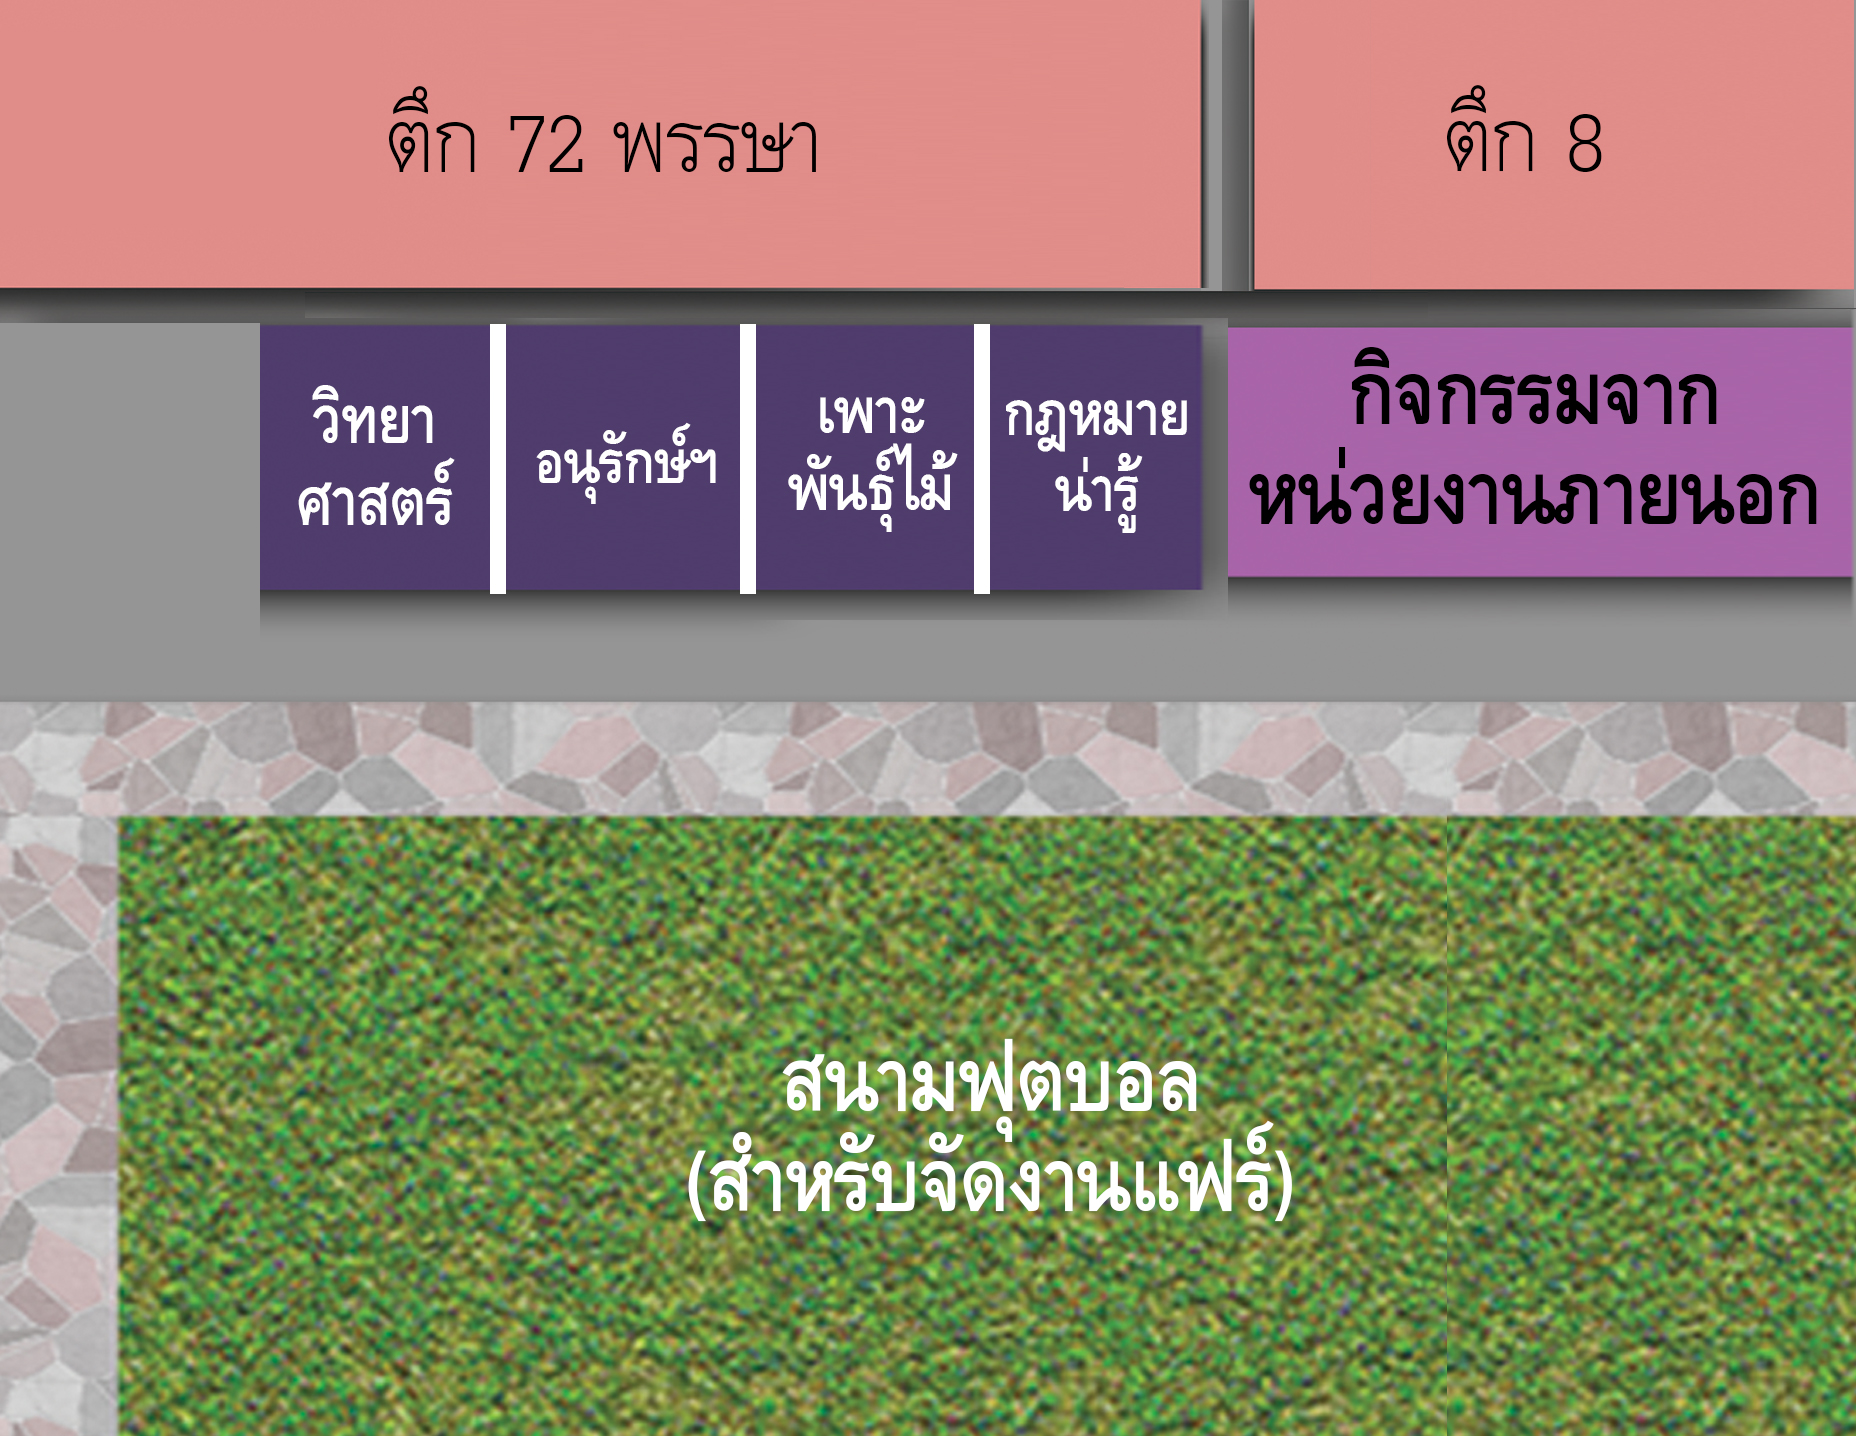
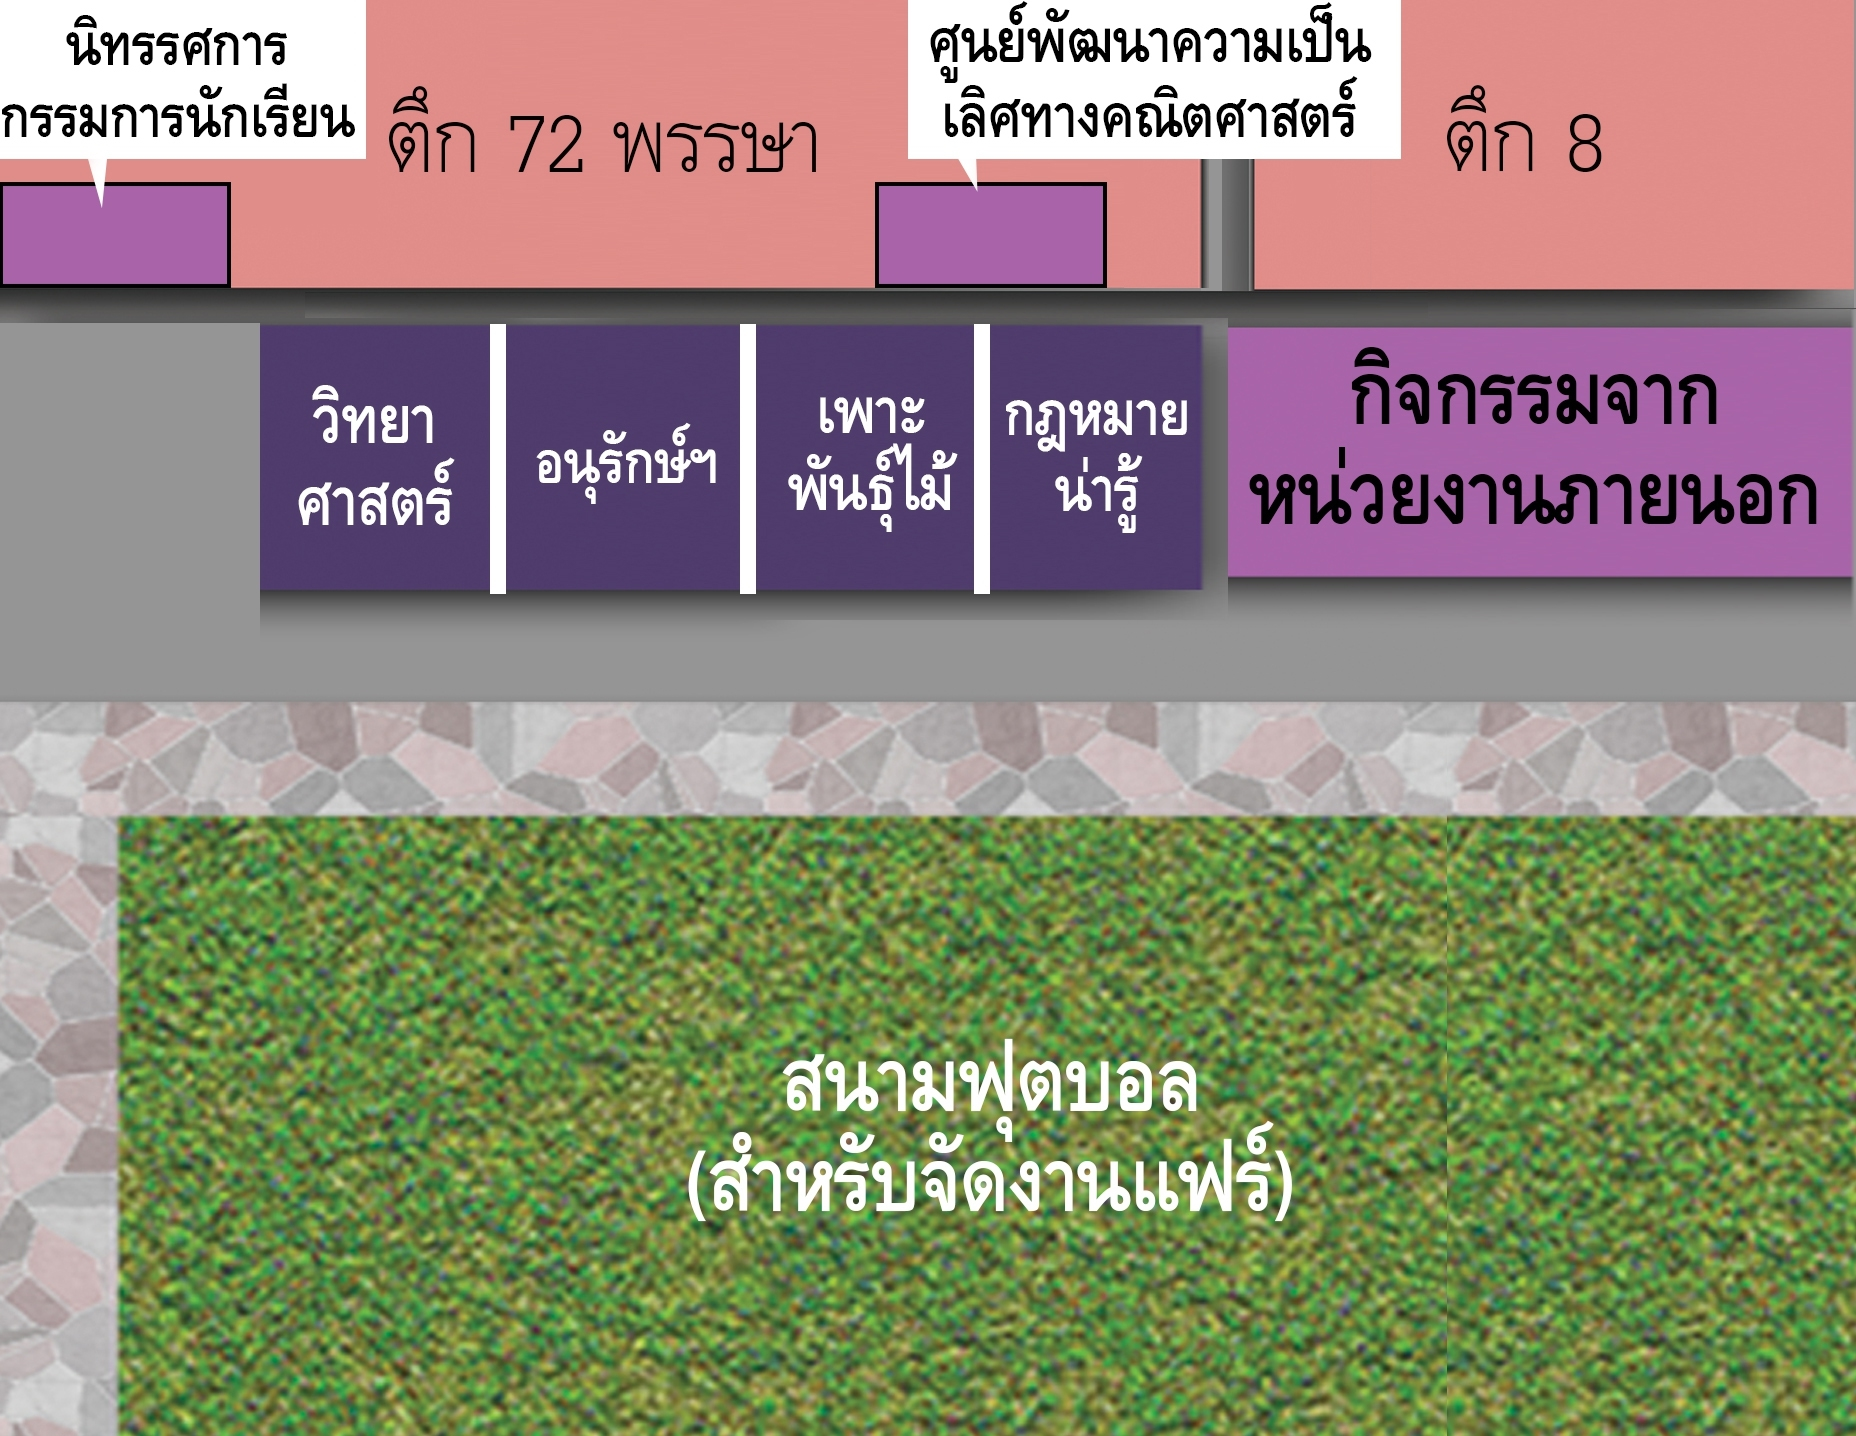
Add school location plan and edit links

Changed region(s): [[0.4688, 0.0, 0.7812, 0.2145], [0.0, 0.0, 0.2188, 0.2145]]

diff --git a/resources/views/index.blade.php b/resources/views/index.blade.php
@@ -53,7 +53,7 @@
             @if($data != null && $data['registered'] && !session()->has('status'))
                 <div class="z-depth-1 card-panel green white-text" style="max-width:800px; margin: 3rem auto 3rem;">
                     รหัสยืนยันการลงทะเบียนของคุณคือ {{ $data['id'] }}<br/>
-                    <span style="font-size: 0.8em">กรุณาแจ้งรหัสที่ ณ จุดลงทะเบียน เพื่อรับเกียรติบัตรและสูติบัตรงาน</span>
+                    <span style="font-size: 0.8em">กรุณาแจ้งรหัสนี้ ณ จุดลงทะเบียน เพื่อรับเกียรติบัตรและสูติบัตรงาน</span>
                 </div>
             @endif
 
@@ -147,7 +147,7 @@
                 <div class="col s12 m4">
                     <a href="https://www.facebook.com/tuyearbookclub/">ชมรมสร้างสรรค์หนังสือ</a> <br/>
                     <a href="https://www.facebook.com/tu.comicclub/">ชมรมการ์ตูน</a> <br/>
-                    ชมรมนิเทศศิลป <br/>
+                    <a href="https://www.facebook.com/%E0%B8%8A%E0%B8%A1%E0%B8%A3%E0%B8%A1%E0%B8%99%E0%B8%B4%E0%B9%80%E0%B8%97%E0%B8%A8%E0%B8%A8%E0%B8%B4%E0%B8%A5%E0%B8%9B-%E0%B9%82%E0%B8%A3%E0%B8%87%E0%B9%80%E0%B8%A3%E0%B8%B5%E0%B8%A2%E0%B8%99%E0%B9%80%E0%B8%95%E0%B8%A3%E0%B8%B5%E0%B8%A2%E0%B8%A1%E0%B8%AD%E0%B8%B8%E0%B8%94%E0%B8%A1%E0%B8%A8%E0%B8%B6%E0%B8%81%E0%B8%A9%E0%B8%B2-168207636569942/">ชมรมนิเทศศิลป</a>	<br/>
                     <a href="https://www.facebook.com/RobotTU/">ชมรมของเล่นเพื่อการเรียนรู้</a> <br/>
                     ชมรมเศรษฐศาสตร์ <br/>
                     <a href="https://www.facebook.com/TUGLOBE/">ชมรมโลกทั้งระบบ</a> <br/>
@@ -177,20 +177,20 @@
         <br/>
 
         <h5 class="center theme-color light-text">ผังงาน</h5>
+        <div class="container">
+            <div class="row">
+                <a href="/plan-school.jpg" class="waves-effect waves-light btn fullwidth pink lighten-1 hide-on-small-only">ผังงานต.อ. นิทรรศ ๘ ทศวรรษเตรียมอุดมศึกษา</a>
+                <a href="/plan-school.jpg" class="waves-effect waves-light btn fullwidth pink lighten-1 hide-on-med-and-up">ผังงานต.อ. นิทรรศ</a>
+            </div>
+        </div>
         <div class="row">
             <div class="col s12 m6">
-                <a href="/plan-front.jpg" class="waves-effect waves-light btn fullwidth teal darken-3">บริเวณสนามหญ้าหน้าหอประชุมฯ</a>
+                <a href="/plan-front.jpg" class="waves-effect waves-light btn fullwidth teal darken-3">บริเวณสนามหญ้าหน้าหอประชุม</a>
+                <a href="/plan-auditorium.jpg" class="waves-effect waves-light btn fullwidth deep-purple darken-1">บริเวณหอประชุมโรงเรียน</a>
             </div>
             <div class="col s12 m6">
                 <a href="/plan-ground.jpg" class="waves-effect waves-light btn fullwidth light-green darken-3">ลานอเนกประสงค์ 70 ปี ต.อ.</a>
-            </div>
-            <div class="col s12 m6">
-                <a href="/plan-auditorium.jpg" class="waves-effect waves-light btn fullwidth deep-purple darken-1">บริเวณหอประชุมโรงเรียนฯ</a>
-            </div>
-            <div class="col s12 m6">
                 <a href="/plan-60.jpg" class="waves-effect waves-light btn fullwidth light-blue darken-4">บริเวณหน้าตึก 60 ปี</a>
-            </div>
-            <div class="col s12 m6">
                 <a href="/plan-72.jpg" class="waves-effect waves-light btn fullwidth blue">บริเวณหน้าตึกเฉลิมพระเกียรติ 72 พรรษา</a>
             </div>
         </div>
@@ -219,7 +219,7 @@
                 <div class="col s12 m6">
                     <h5>หอประชุมโรงเรียนเตรียมอุดมศึกษา</h5>
                     ชมรมภาพยนตร์สั้นและสื่อโทรทัศน์<br/>
-                    ชมรมนิเทศศิลป<br/>
+                    <a href="https://www.facebook.com/artsclubofTU/">ชมรมนิเทศศิลป</a> <br/>
                     <a href="https://www.facebook.com/EntertainerClub/">ชมรมสันทนากร</a> <br/>
                     <a href=" https://m.facebook.com/Triamudom-Suksa-Wing-Symphony-Orchestra-338542792849087/">ชมรมดุริยางค์</a>และวงดนตรีร่วมสมัย
                     <br/>
